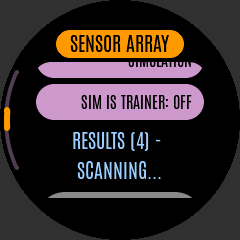
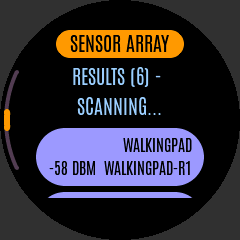
Longer high-duty pairing scans, keep relevant devices in full scan list, grey nameless HMI entries

diff --git a/src/variants/web/assets/index.html b/src/variants/web/assets/index.html
@@ -161,7 +161,7 @@ function renderConfig(c){
  $("c-wifiPassword").placeholder=c.wifiPasswordSet?"unchanged":"none (open network)";
  $("c-apPassword").placeholder=c.apPasswordDefault?"default: smartfitness":"unchanged";}
  async function loadConfig(){try{renderConfig(await(await fetch("/api/config")).json())}catch(e){toast("could not load settings",false)}}
-$("btn-scan").onclick=()=>run("scan",{seconds:15},true);$("btn-scan-stop").onclick=()=>run("scan",{action:"stop"},true);
+$("btn-scan").onclick=()=>run("scan",{seconds:30},true);$("btn-scan-stop").onclick=()=>run("scan",{action:"stop"},true);
 $("btn-connect").onclick=()=>run("connect");$("btn-disconnect").onclick=()=>run("disconnect");$("btn-sim").onclick=()=>run("simulate");
 $("btn-unpair").onclick=()=>{if(confirm("Forget the paired device?"))run("unpair")};
 $("btn-apply").onclick=async()=>{const v=parseFloat($("ctl-value").value);if(!isFinite(v)){toast("enter a number",false);return}

diff --git a/tests/host/test_ble_input.cpp b/tests/host/test_ble_input.cpp
@@ -1416,6 +1416,40 @@ void testScanMergingAndConsolidation() {
     assert(dev->rssi == -40);
 }
 
+void testScanListKeepsRelevantDevices() {
+    Harness h;
+    assert(h.adapter.startScan());
+    // Fill the list with anonymous devices (no name, service or protocol).
+    for (std::size_t i = 0; i < BleInputAdapter::kMaxScanResults; ++i) {
+        ble::BleAddress anonymous;
+        anonymous.bytes[5] = static_cast<std::uint8_t>(0x10 + i);
+        h.central.advertise(anonymous, "", {}, {0x4C, 0x00}, -40 - static_cast<int>(i));
+    }
+    h.advance(10);
+    assert(h.adapter.scanResults().size() == BleInputAdapter::kMaxScanResults);
+    // Another anonymous device is dropped.
+    ble::BleAddress late;
+    late.bytes[5] = 0x70;
+    h.central.advertise(late, "", {}, {}, -20);
+    h.advance(10);
+    assert(!h.adapter.findResult(late) && h.adapter.droppedScanResults() == 1);
+    // A fitness device replaces the weakest anonymous entry.
+    ble::BleAddress weakest;
+    weakest.bytes[5] = static_cast<std::uint8_t>(0x10 + BleInputAdapter::kMaxScanResults - 1);
+    const ble::BleAddress bike = address("aa:00:00:00:00:71");
+    h.central.advertise(bike, "", {0x1826}, {}, -80);
+    h.advance(10);
+    assert(h.adapter.scanResults().size() == BleInputAdapter::kMaxScanResults);
+    assert(!h.adapter.findResult(weakest) && h.adapter.droppedScanResults() == 2);
+    const ScanResult* entry = h.adapter.findResult(bike);
+    assert(entry && entry->detectedAdapter == "ftms" && entry->rssi == -80 && entry->name.empty());
+    // Its scan response is merged into the same entry.
+    h.central.advertise(bike, "KICKR", {}, {}, -78);
+    h.advance(10);
+    entry = h.adapter.findResult(bike);
+    assert(entry && entry->name == "KICKR" && entry->services.size() == 1);
+}
+
 void testScanLabelHelpers() {
     // lookupCompany
     assert(lookupCompany(0x004C) == "Apple");
@@ -1494,6 +1528,7 @@ void runBleInputTests() {
     testStaleFtmsTreadmillControlSafety();
     testScanDedupAndExclusion();
     testScanMergingAndConsolidation();
+    testScanListKeepsRelevantDevices();
     testScanLabelHelpers();
     testFtmsLifecycle();
     testProtocolFailureAndControlDenied();

diff --git a/sim/hmi_sim.cpp b/sim/hmi_sim.cpp
@@ -612,18 +612,25 @@ ScanView scanView() {
     ScanView scan;
     scan.scanning = true;
     scan.bleAvailable = true;
-    auto device = [](const char* address, const char* name, int rssi, const char* adapter) {
+    // As built by BridgeController::scanView(): one entry per address, label
+    // falls back to manufacturer/service, irrelevant devices sorted last.
+    auto device = [](const char* address, const char* name, int rssi, const char* adapter, const char* label,
+                     bool relevant) {
         ScanDeviceView view;
         view.address = address;
         view.name = name;
         view.rssi = rssi;
         view.adapter = adapter;
+        view.label = label;
+        view.relevant = relevant;
         return view;
     };
-    scan.devices = {device("aa:00:00:00:00:22", "WalkingPad", -58, "walkingpad-r1"),
-                    device("aa:00:00:00:00:21", "KICKR CORE", -64, "ftms"),
-                    device("aa:00:00:00:00:30", "I_TL", -71, "ifit-treadmill"),
-                    device("aa:00:00:00:00:31", "", -83, "")};
+    scan.devices = {device("aa:00:00:00:00:22", "WalkingPad", -58, "walkingpad-r1", "WalkingPad", true),
+                    device("aa:00:00:00:00:21", "KICKR CORE", -64, "ftms", "KICKR CORE", true),
+                    device("aa:00:00:00:00:30", "I_TL", -71, "ifit-treadmill", "I_TL", true),
+                    device("aa:00:00:00:00:32", "", -75, "", "Heart Rate", true),
+                    device("aa:00:00:00:00:31", "", -60, "", "Apple", false),
+                    device("aa:00:00:00:00:33", "", -83, "", "aa:00:00:00:00:33", false)};
     return scan;
 }
 

diff --git a/src/core/ble_input_adapter.cpp b/src/core/ble_input_adapter.cpp
@@ -3,6 +3,7 @@
 #include <utility>
 
 #include "protocols/registry.hpp"
+#include "scan_label.h"
 
 using namespace smartfitness;
 
@@ -332,11 +333,24 @@ void BleInputAdapter::handleScanReport(const ble::ScanReport& report) {
     }
     if (!entry) {
         if (results_.size() >= kMaxScanResults) {
+            // A full list keeps fitness devices: a relevant newcomer replaces
+            // the weakest entry without name, known service or protocol.
+            ScanResult* weakest = nullptr;
+            if (isRelevantDevice(advertisement.name, protocols::detectProtocol(advertisement) ? "detected" : "",
+                                 advertisement.services)) {
+                for (auto& result : results_) {
+                    if (isRelevantDevice(result.name, result.detectedAdapter, result.services)) continue;
+                    if (!weakest || result.rssi < weakest->rssi) weakest = &result;
+                }
+            }
             ++droppedResults_;
-            return;
+            if (!weakest) return;
+            *weakest = ScanResult{};
+            entry = weakest;
+        } else {
+            results_.emplace_back();
+            entry = &results_.back();
         }
-        results_.emplace_back();
-        entry = &results_.back();
         entry->address = report.address;
         entry->connectable = report.connectable;
     } else {

diff --git a/src/variants/hmi/hmi_ui.cpp b/src/variants/hmi/hmi_ui.cpp
@@ -3,6 +3,7 @@
 #include <algorithm>
 #include <cstdio>
 
+#include "ble_input_adapter.h"
 #include "ftms_output.h"
 
 using namespace smartfitness;
@@ -507,7 +508,7 @@ void HmiUi::buildDevices() {
     } else {
         addButton(list, tr(Str::Scan), [this] {
             Command scan = makeCommand(CommandType::Scan);
-            scan.durationMs = 15000;
+            scan.durationMs = BleInputAdapter::kDefaultScanMs;
             submit(scan);
         });
     }
@@ -536,7 +537,7 @@ void HmiUi::buildDevices() {
     if (scan_.devices.empty()) addLabel(list, tr(Str::NoResults));
     for (std::size_t index = 0; index < scan_.devices.size(); ++index) {
         const auto& dev = scan_.devices[index];
-        const std::uint32_t color = dev.relevant ? lcars::Violet : lcars::Gray;
+        const std::uint32_t color = scanEntryMuted(dev) ? lcars::Gray : lcars::Violet;
         lcars::pill(addButton(list, scanEntryLabel(dev),
                              [this, index] { openDevice(index); }), color);
     }

diff --git a/include/core/ble_input_adapter.h b/include/core/ble_input_adapter.h
@@ -51,7 +51,7 @@ public:
     enum class LinkState : std::uint8_t { Idle, Connecting, Ready, Backoff, Listening };
 
     static constexpr std::size_t kMaxScanResults = 24;
-    static constexpr std::uint32_t kDefaultScanMs = 15000;
+    static constexpr std::uint32_t kDefaultScanMs = 30000;
 
     BleInputAdapter(smartfitness::ble::CentralTransport& transport, Clock clock);
     BleInputAdapter(smartfitness::ble::CentralTransport& transport, Clock clock, const Timing& timing);
@@ -79,7 +79,8 @@ public:
     void setAutoConnect(bool enabled) { autoConnect_ = enabled; }
     bool autoConnect() const { return autoConnect_; }
 
-    // Scanning (results are deduplicated by address).
+    // Scanning (results are deduplicated by address; when the list is full a
+    // relevant device replaces the weakest irrelevant one, counted as dropped).
     bool startScan(std::uint32_t durationMs = kDefaultScanMs);
     bool stopScan();
     bool scanning() const { return userScan_; }

diff --git a/tests/host/test_hmi_model.cpp b/tests/host/test_hmi_model.cpp
@@ -159,11 +159,16 @@ void testStatusTexts() {
     device.label = "Apple";
     device.relevant = false;
     assert(scanEntryLabel(device) == "Apple\n-61 dBm  ?");
+    assert(scanEntryMuted(device));
+    device.label = "FTMS";
+    device.relevant = true;  // known service, but no advertised name
+    assert(scanEntryMuted(device));
     device.name = "WalkingPad";
     device.label = "WalkingPad";
     device.relevant = true;
     device.adapter = "walkingpad-r1";
     assert(scanEntryLabel(device) == "WalkingPad\n-61 dBm  walkingpad-r1");
+    assert(!scanEntryMuted(device));
     assert(onOff(true) == "on" && onOff(false) == "off");
 }
 

diff --git a/include/core/nimble_central.h b/include/core/nimble_central.h
@@ -23,12 +23,12 @@
 
 class NimbleCentral final : public smartfitness::ble::CentralTransport {
 public:
-    static constexpr std::size_t kScanQueue = 24;
+    static constexpr std::size_t kScanQueue = 48;
     static constexpr std::size_t kEventQueue = 32;
     static constexpr std::size_t kCommandQueue = 8;
     static constexpr std::uint8_t kConnectTimeoutS = 5;
     static constexpr std::uint32_t kScanWindowNormal = 37;
-    static constexpr std::uint32_t kScanWindowHighDuty = 80;
+    static constexpr std::uint32_t kScanWindowHighDuty = 90;
     static constexpr std::uint32_t kScanInterval = 97;
 
     NimbleCentral() = default;

diff --git a/include/variants/hmi/hmi_model.h b/include/variants/hmi/hmi_model.h
@@ -99,6 +99,9 @@ std::string ftmsLabel(const smartfitness::FtmsOutputView& ftms);
 std::string targetLabel(const smartfitness::StatusView& status);
 // Two-line scan list entry: name (or address) / "-60 dBm  ftms".
 std::string scanEntryLabel(const smartfitness::ScanDeviceView& device);
+// Grey scan entry: irrelevant devices (sorted last) and devices without an
+// advertised name, whose label falls back to manufacturer, service or address.
+bool scanEntryMuted(const smartfitness::ScanDeviceView& device);
 std::string onOff(bool value);
 
 // ---- Settings -----------------------------------------------------------------

diff --git a/scripts/web_screenshots.py b/scripts/web_screenshots.py
@@ -244,7 +244,7 @@ def render(browser, output, name, width, height):
             command(page.locator("#btn-connect"), "connect")
             assert commands[-1] == ("connect", {})
             command(page.locator("#btn-scan"), "scan")
-            assert commands[-1] == ("scan", {"seconds": 15}), commands[-1]
+            assert commands[-1] == ("scan", {"seconds": 30}), commands[-1]
             page.locator("#toast").evaluate("e => e.style.display = 'none'")
         elif panel == "ctl":
             page.locator("#ctl-value").fill("999")

diff --git a/src/variants/hmi/hmi_model.cpp b/src/variants/hmi/hmi_model.cpp
@@ -231,6 +231,8 @@ std::string scanEntryLabel(const ScanDeviceView& device) {
     return label;
 }
 
+bool scanEntryMuted(const ScanDeviceView& device) { return !device.relevant || device.name.empty(); }
+
 std::string onOff(bool value) { return tr(value ? Str::On : Str::Off); }
 
 std::uint8_t nextBrightness(std::uint8_t percent) {

diff --git a/README.md b/README.md
@@ -287,6 +287,11 @@ Wi-Fi/AP edits (including factory reset) require a restart to change the running
 1. Wake the equipment, enable its pairing mode, and disconnect competing apps.
 2. Open **Devices → Scan**; select a result by name/address, RSSI, services, and
    detected adapter. Optionally override the adapter, then choose **Pair**.
+   The pairing scan runs 30 s with a high-duty scan window (90 of 97 ms) and
+   duplicate reports; advertisements and scan responses are merged into one
+   entry per address. Entries without an advertised name show the manufacturer
+   (from manufacturer data) or the advertised service in grey; devices with no
+   name, no known service and no detected protocol are grey and listed last.
 3. Pairing saves the source and enables BLE input immediately. Watch the Dashboard
    link state and metrics; a successful pairing command means “connecting”, not
    that the equipment has already connected. **Connect**, **Disconnect**, **Unpair**
@@ -735,8 +740,8 @@ Normalized units: speed in km/h, cadence in rpm, power in watts, heart rate in b
 | NimBLE connections | Compile-time maximum **3**: one BLE input, one FTMS output client, one spare |
 | Source selection | One source, not sensor aggregation; Keiser is advertisement-only |
 | FTMS clients | **One**; advertising stops while connected |
-| Scan results | 24 deduplicated entries |
-| Central queues | 24 scan reports; 32 events (lifecycle events can evict notifications); 8 worker operations |
+| Scan results | 24 deduplicated entries (a relevant device replaces the weakest irrelevant one when full) |
+| Central queues | 48 scan reports; 32 events (lifecycle events can evict notifications); 8 worker operations |
 | Protocol write outbox | 16 pending GATT writes |
 | FTMS Control Point queue | 8 writes, 20 bytes per write; full queue drops a write |
 | API | 8 jobs; up to 2 processed/loop; 16 cached results; body ≤ 1024 bytes |
